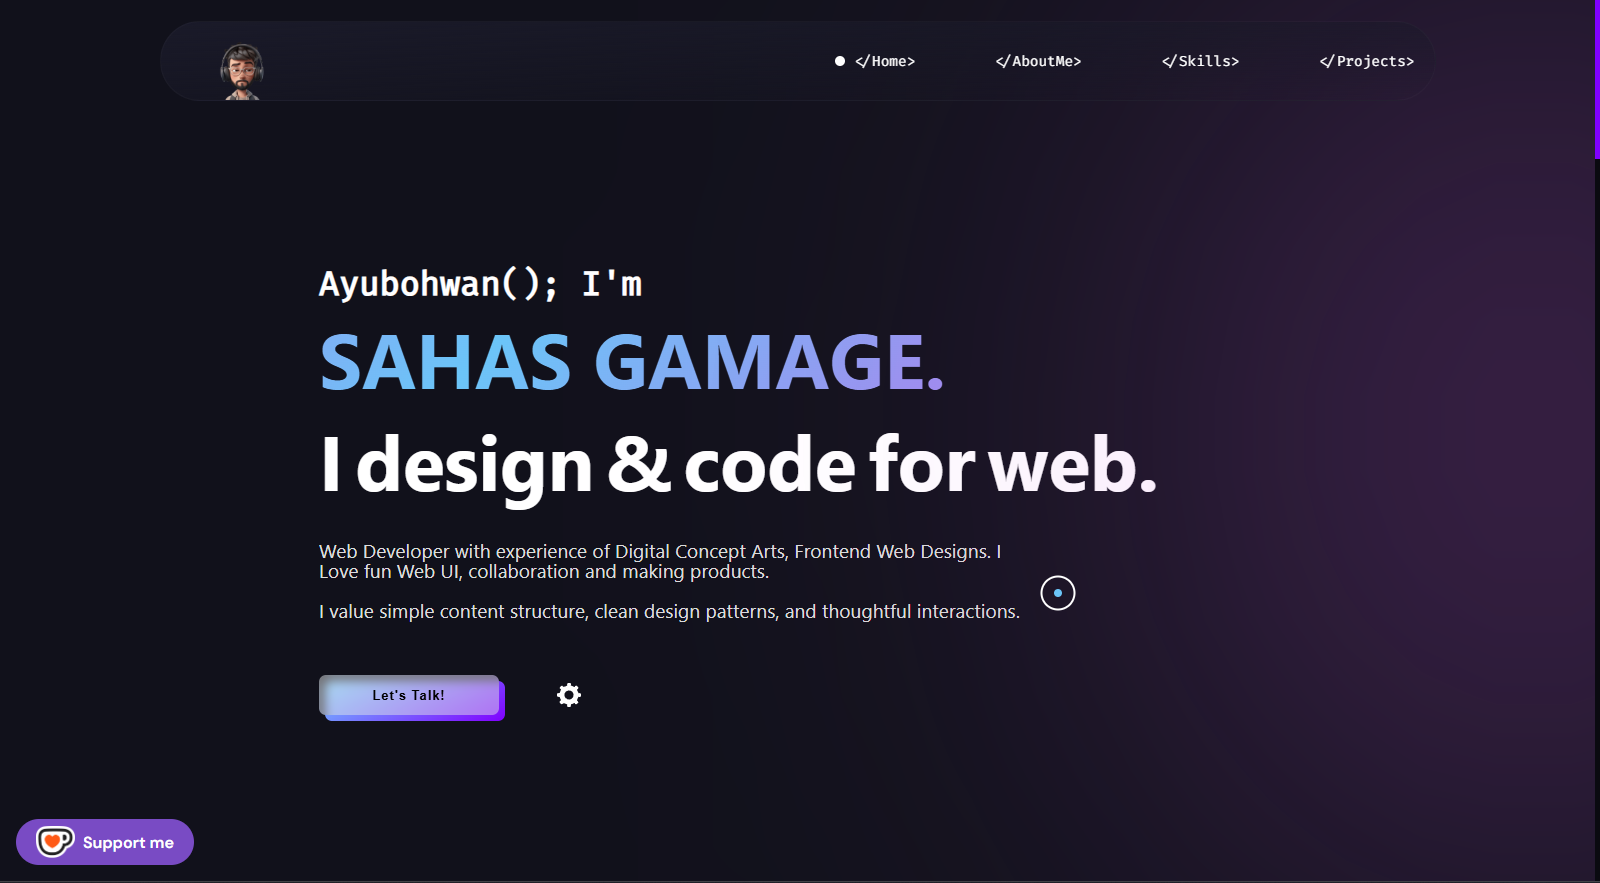
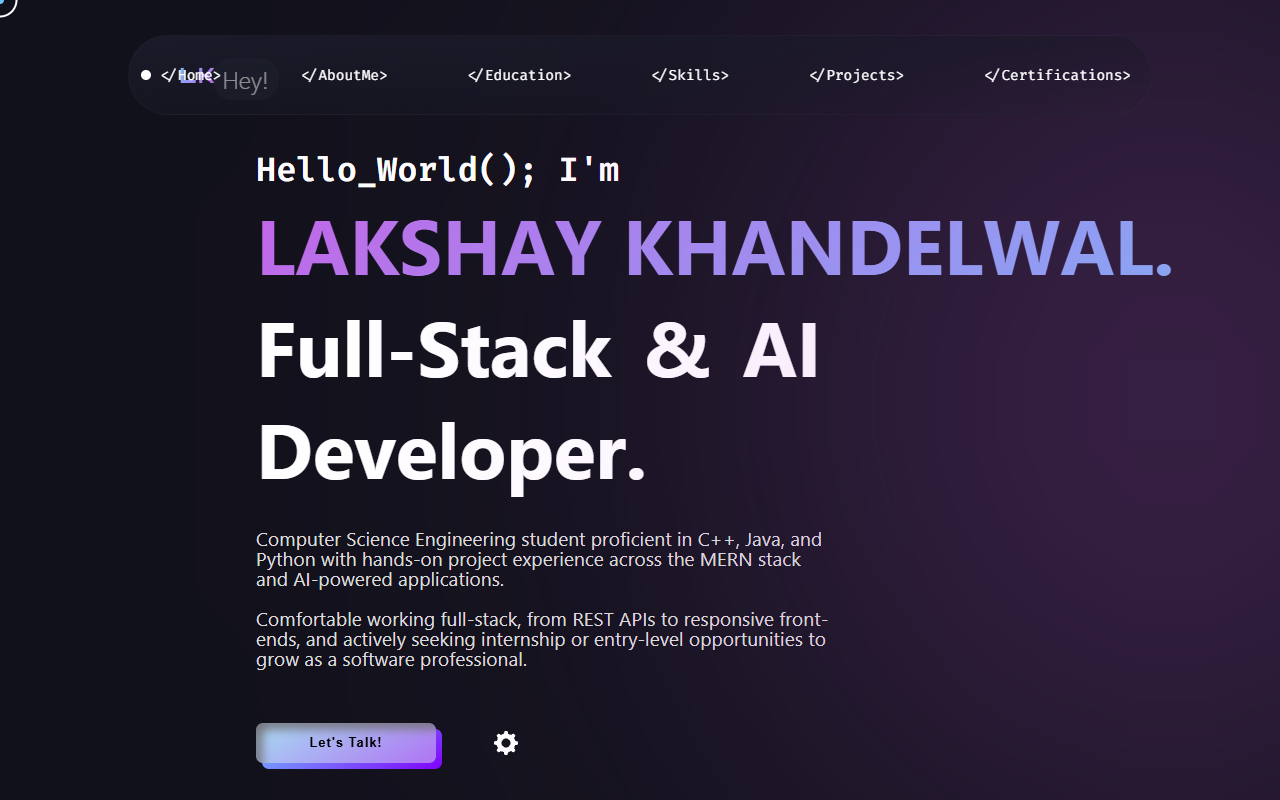
Update portfolio preview screenshot and author details to Lakshay Khandelwal

diff --git a/Formatted code/formatted.js b/Formatted code/formatted.js
@@ -81,7 +81,7 @@ navLi.forEach( li => {
   }
 })
 })
-console.log('%c Designed and Developed by Sahas Gamage ', 'background-image: linear-gradient(90deg,#8000ff,#6bc5f8); color: white;font-weight:900;font-size:1rem; padding:20px;');
+console.log('%c Designed and Developed by Lakshay Khandelwal ', 'background-image: linear-gradient(90deg,#8000ff,#6bc5f8); color: white;font-weight:900;font-size:1rem; padding:20px;');
 
 
 

diff --git a/README.md b/README.md
@@ -56,9 +56,8 @@ This project serves as:
 
 ## Author
 
-Sahas Gamage  
-Founder — Code by SG  
-Web Developer
+Lakshay Khandelwal  
+Full-Stack & AI Developer  
 
 ---
 
